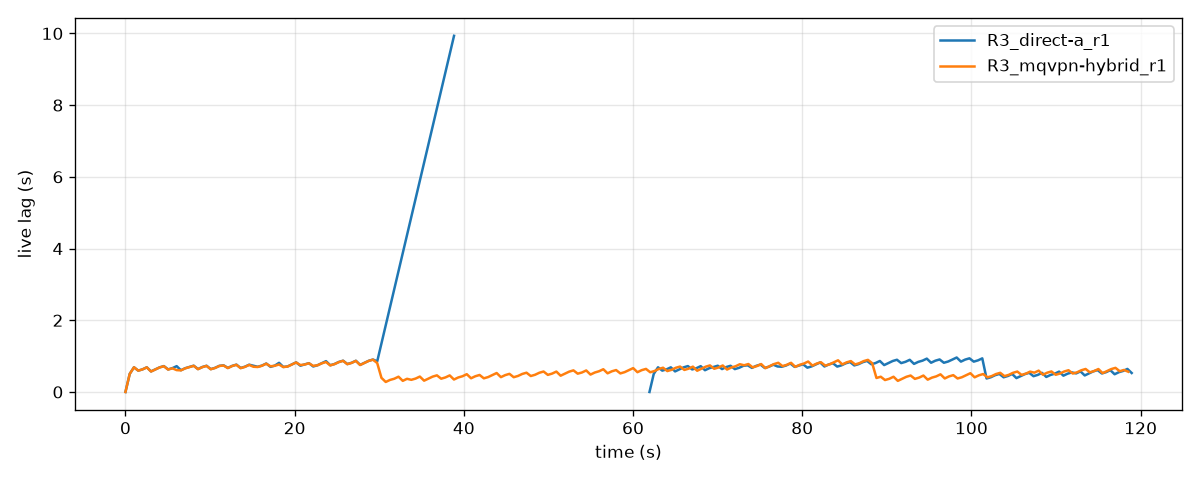
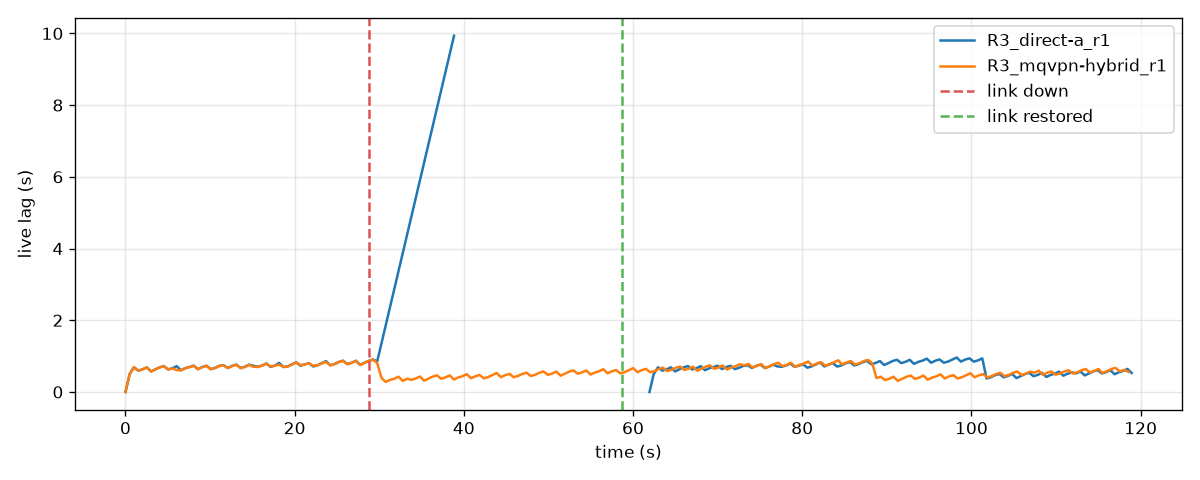
bench(rtmp): mark link down/restore on lag charts

Changed region(s): [[0.7708, 0.1562, 0.9867, 0.2812]]

diff --git a/benchmarks/rtmp_analyze.py b/benchmarks/rtmp_analyze.py
@@ -179,6 +179,7 @@ def cmd_chart(a):
     matplotlib.use("Agg")
     import matplotlib.pyplot as plt
     fig, ax = plt.subplots(figsize=(10, 4))
+    down_xs, up_xs = [], []
     for cell in a.cell_dirs:
         label = os.path.basename(cell.rstrip("/"))
         lags = session_lags(cell)
@@ -192,6 +193,30 @@ def cmd_chart(a):
             ys = [l for _, l in pts]
             line, = ax.plot(xs, ys, color=color, label=label if color is None else None)
             color = line.get_color()
+        # flap markers (cells share the schedule; dedup below by rounding)
+        if t0 is not None:
+            for ts, k, _a in read_events(os.path.join(cell, "flap.log")):
+                if k == "flap-down":
+                    down_xs.append(ts - t0)
+                elif k == "flap-up":
+                    up_xs.append(ts - t0)
+    def cluster(vals, eps=2.0):
+        # cells align to their own t0, so the shared flap schedule lands at
+        # slightly different relative times per cell; merge marks within eps
+        out = []
+        for v in sorted(vals):
+            if out and v - out[-1][-1] <= eps:
+                out[-1].append(v)
+            else:
+                out.append([v])
+        return [sum(c) / len(c) for c in out]
+
+    for i, x in enumerate(cluster(down_xs)):
+        ax.axvline(x, color="tab:red", linestyle="--", alpha=0.8,
+                   label="link down" if i == 0 else None)
+    for i, x in enumerate(cluster(up_xs)):
+        ax.axvline(x, color="tab:green", linestyle="--", alpha=0.8,
+                   label="link restored" if i == 0 else None)
     ax.set_xlabel("time (s)"); ax.set_ylabel("live lag (s)")
     ax.legend(); ax.grid(True, alpha=0.3)
     fig.tight_layout(); fig.savefig(a.out, dpi=120)
